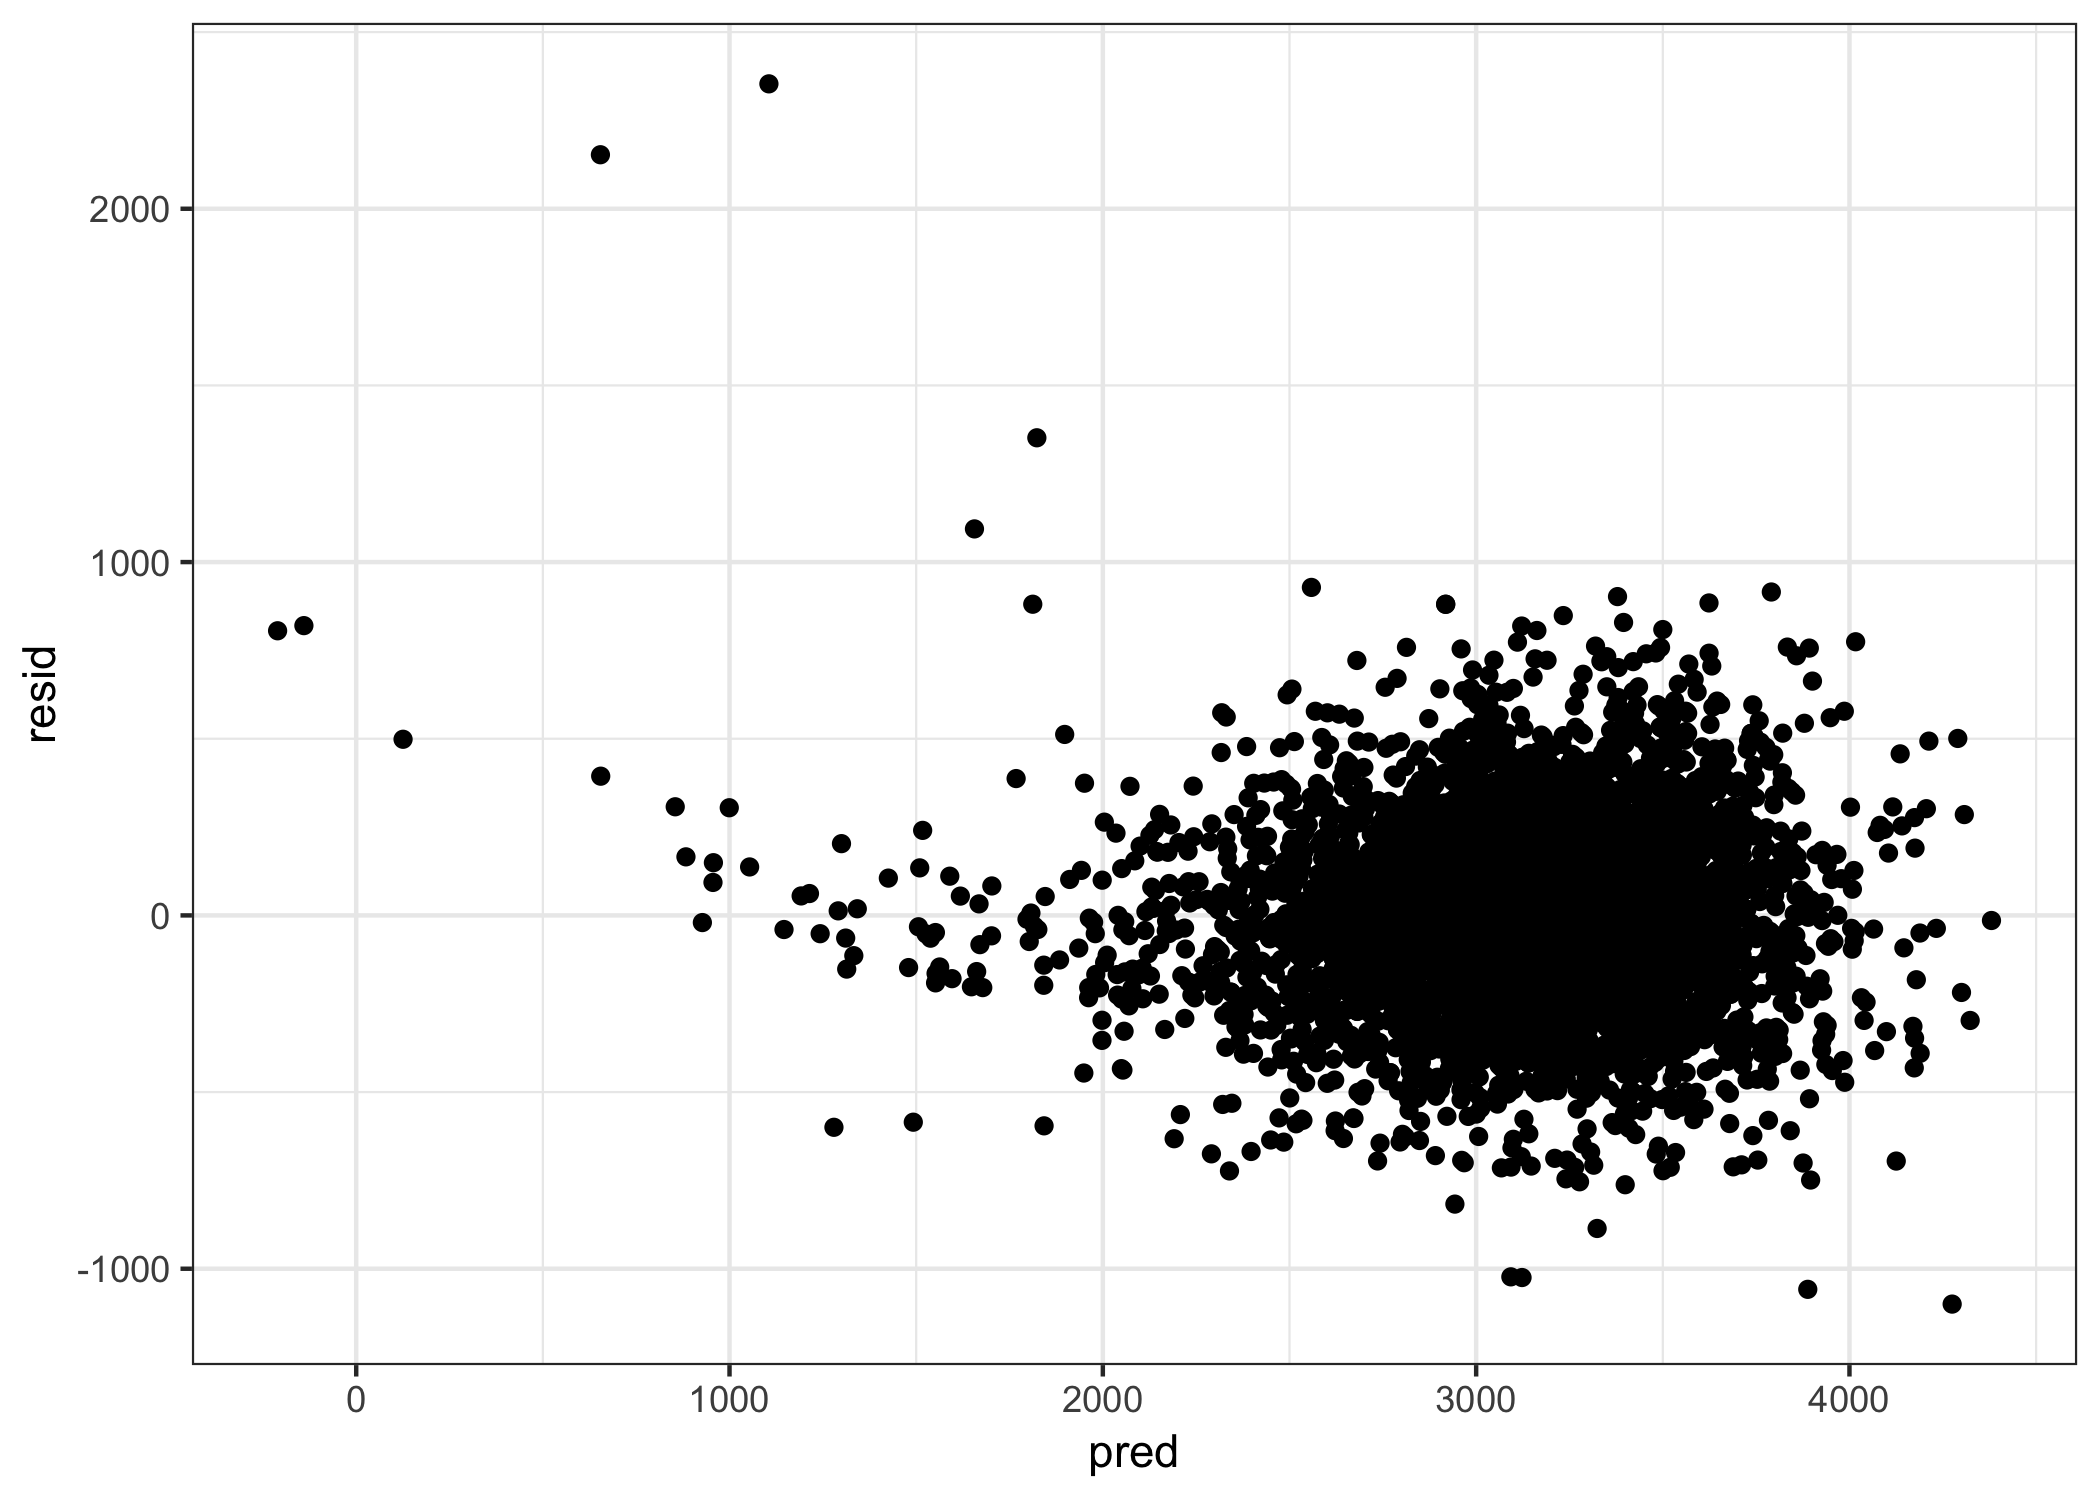
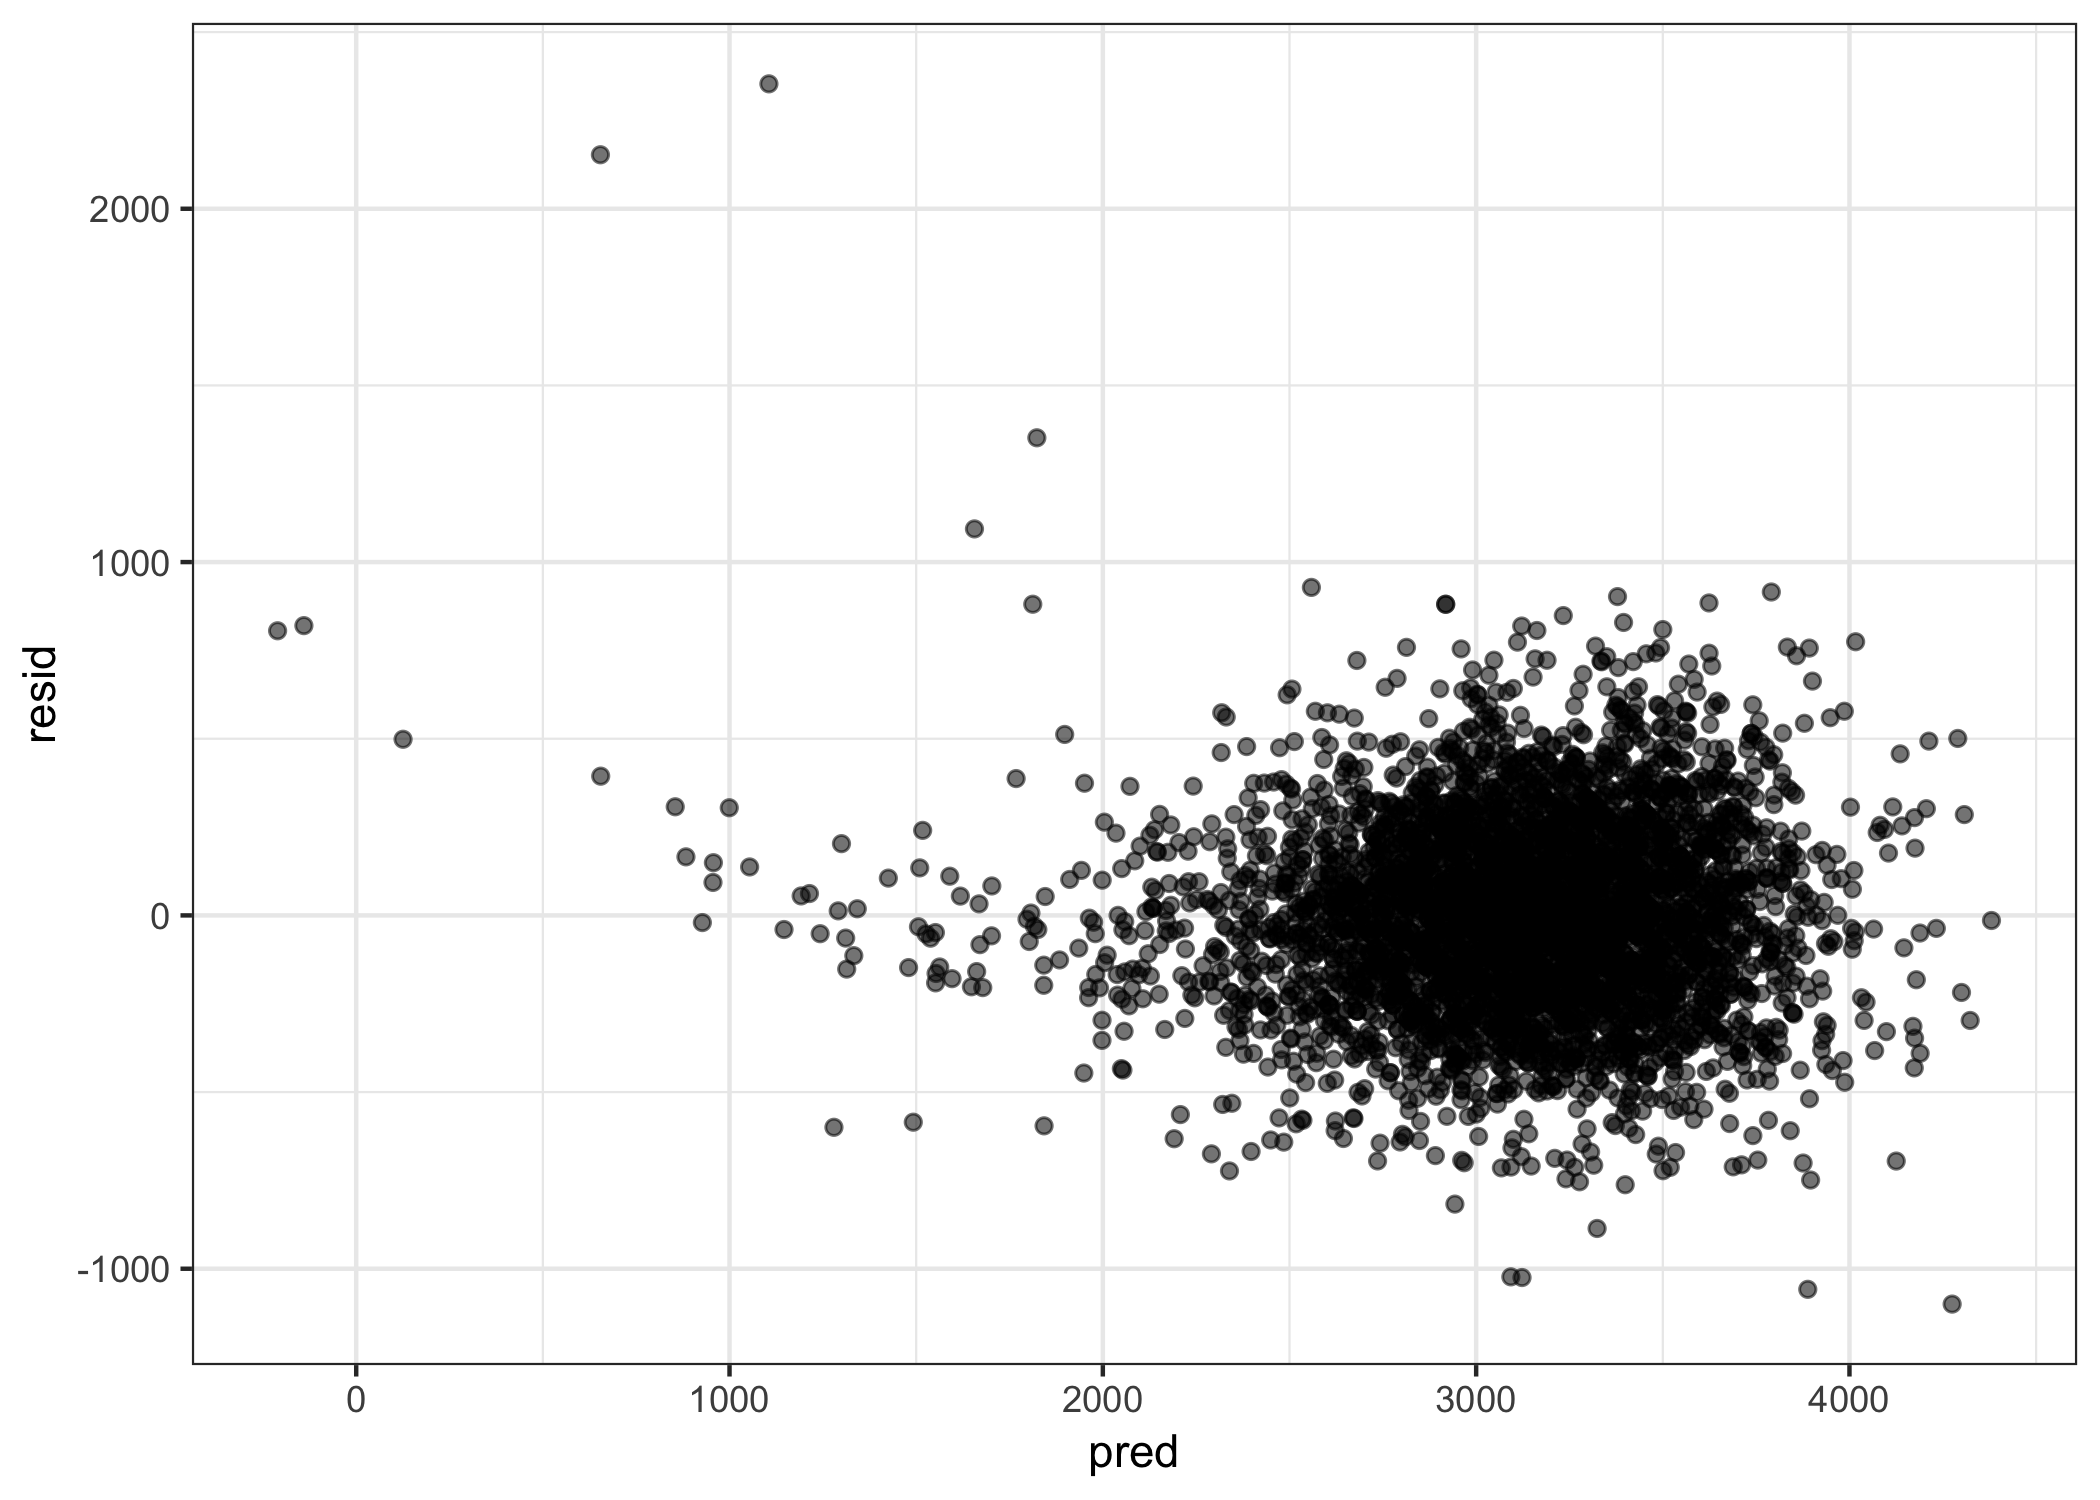
doing some final beautify

diff --git a/p8105_hw6_gw2383.md b/p8105_hw6_gw2383.md
@@ -275,7 +275,9 @@ reg_optimal = lm(bwt ~ babysex + bhead + blength + fincome + gaweeks + mheight +
 bw_df %>% 
   modelr::add_predictions(reg_optimal) %>% 
   modelr::add_residuals(reg_optimal) %>% 
-  ggplot(aes(x = pred, y = resid)) + geom_point()
+  ggplot(aes(x = pred, y = resid)) + 
+  geom_point(aes(alpha = 0.3)) +
+  theme(legend.position = "none")
 ```
 
 <img src="p8105_hw6_gw2383_files/figure-markdown_github/unnamed-chunk-9-1.png" width="90%" />
